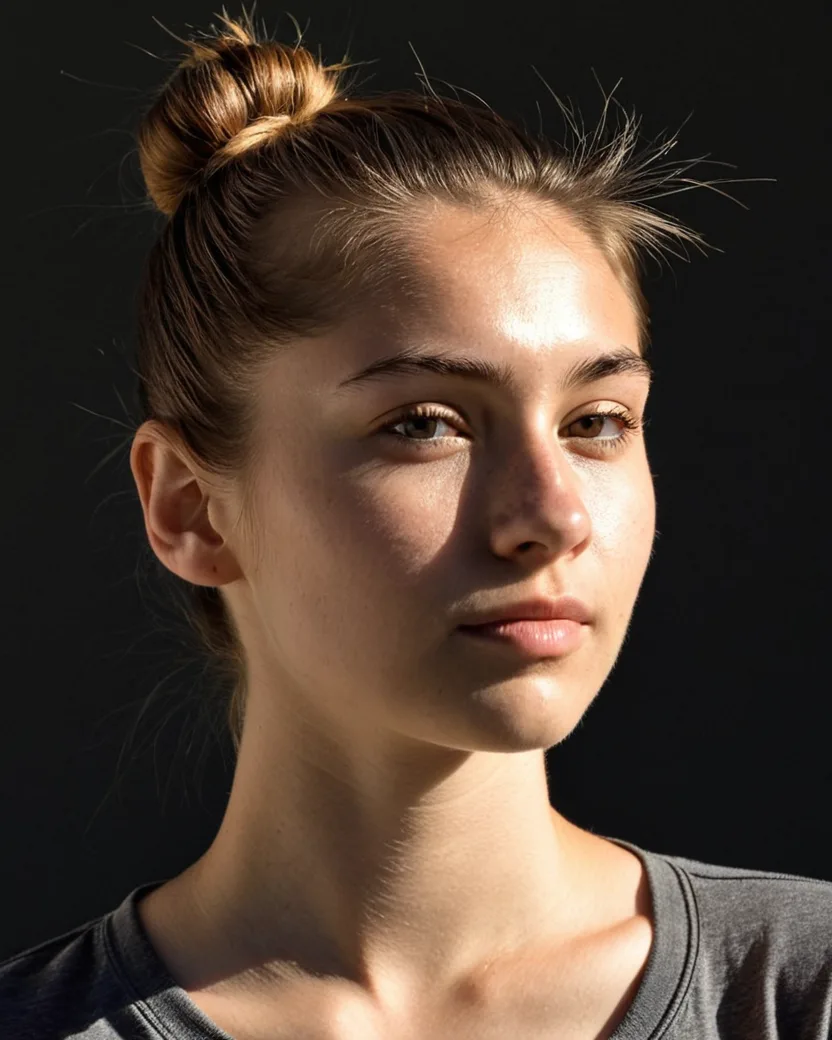
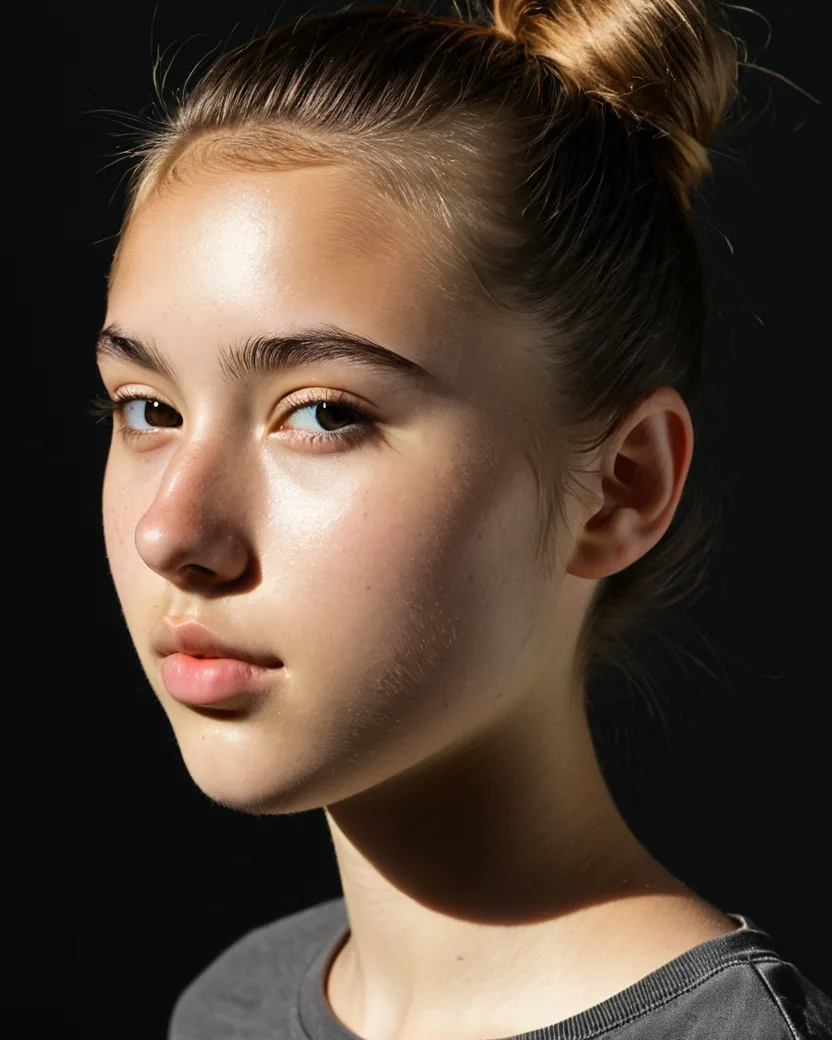
fix(fotografia): Broad passa a ensinar luz larga a serio
A fotografia do Broad era, na geometria, uma Short espelhada: a cabeca
virada para um lado e a luz vinda desse mesmo lado, ou seja a acender o
lado LONGE da camara. Os dois cartoes do par mostravam a mesma coisa.

Nova geracao (seed 202020, mesmos parametros da seccao: JuggernautXL
Ragnarok, 832x1040, dpmpp_2m/karras, 36 passos, CFG 7, txt2img). A
imagem entra espelhada para a cabeca virar para o mesmo lado do Short e
a luz vir da direita, que e onde a planta do cartao a desenha (az -45,
inalterado).

Onze formulacoes ate acertar: descrever a geometria nunca funcionou --
com a cabeca virada o modelo poe sempre a luz do lado para onde o nariz
aponta. So cedeu ao nomear o erro ("the light is on the wrong side, the
side of her face that the camera sees most of"). Prompt, alternativas e
analise em _rembrandt/2026-08-23-broad/ (fora do repositorio).

Conferido no browser a 1440/820/390 px: par Short vs Broad coerente com
os diagramas e com o texto dos cartoes, 16/16 fotografias carregadas em
4:5, sem overflow, sem erros de consola nem pedidos falhados.

diff --git a/sw.js b/sw.js
@@ -1,4 +1,4 @@
-const CACHE = 'dcop7-v302';
+const CACHE = 'dcop7-v303';
 const STATIC = [
   '/',
   '/index.html',
